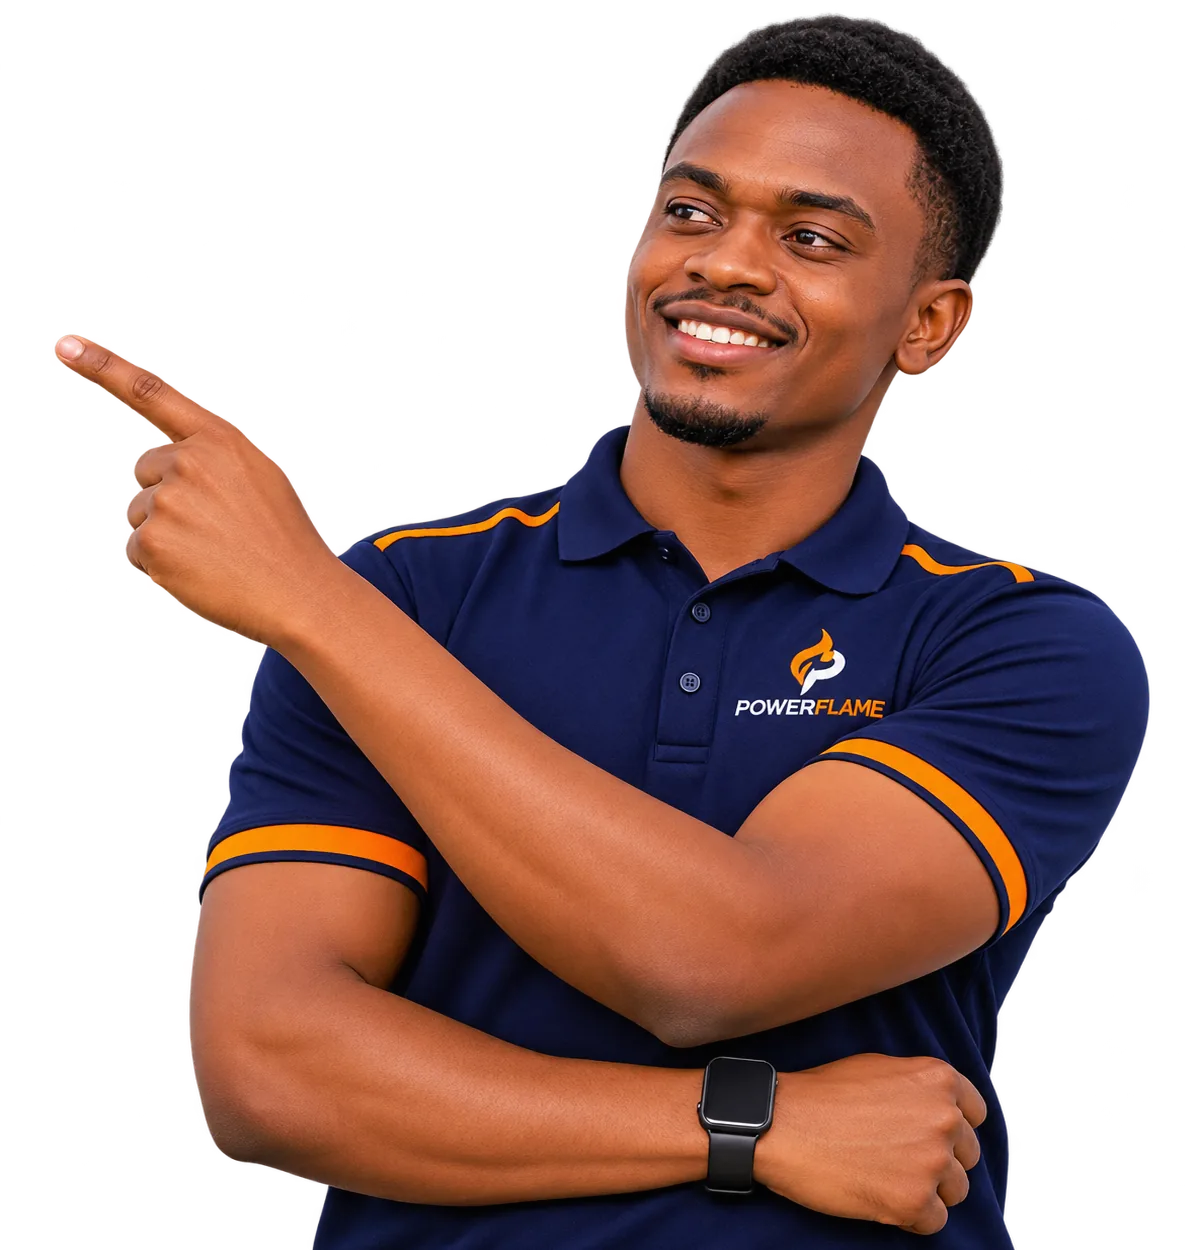
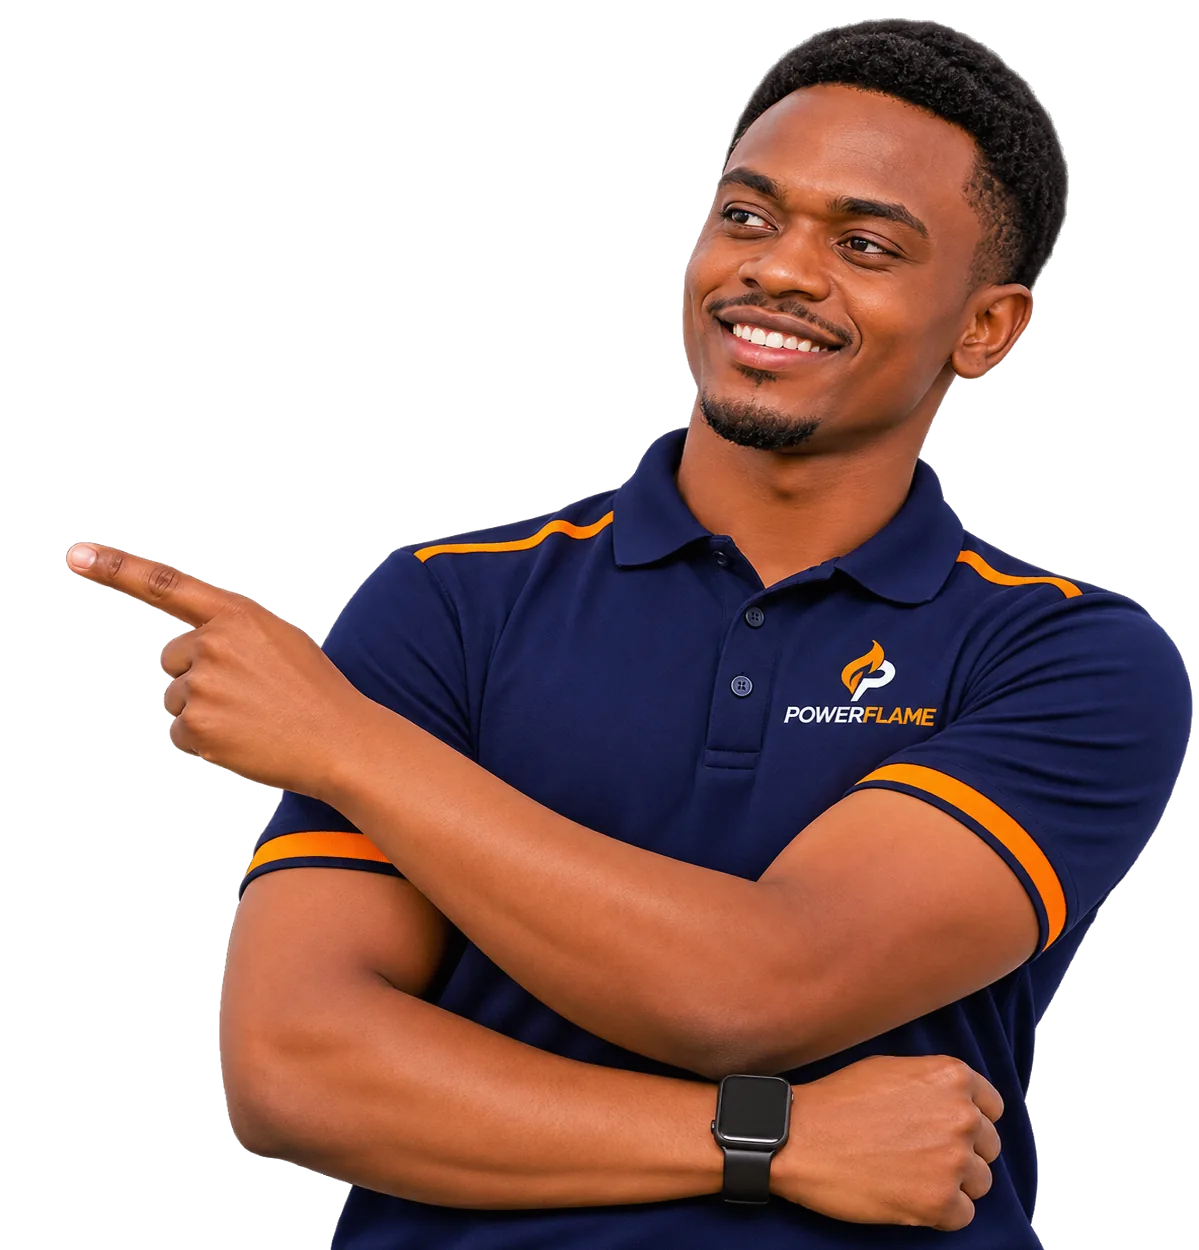
style: adjust font sizes and translations for improved responsiveness in Hero section

diff --git a/src/components/sections/Hero/Hero.module.css b/src/components/sections/Hero/Hero.module.css
@@ -82,8 +82,8 @@
 }
 
 .title {
-  /* 32px on phones → 56px on desktop */
-  font-size: clamp(2rem, 1.4rem + 2.6vw, 3.5rem);
+  /* 30px on phones → 48px on desktop */
+  font-size: clamp(1.875rem, 1.35rem + 2.2vw, 3rem);
   font-weight: var(--weight-black);
   line-height: var(--leading-tight);
   letter-spacing: var(--tracking-tight);
@@ -185,7 +185,7 @@
   /* Sit the text column slightly above the photo's centre line
      (from 1280px only: on smaller laptops it would slide under the header) */
   .copy {
-    translate: 0 -4.5rem;
+    translate: 0 -1.5rem;
   }
 
   /* Never squeeze the items (or their icons) to fit */
